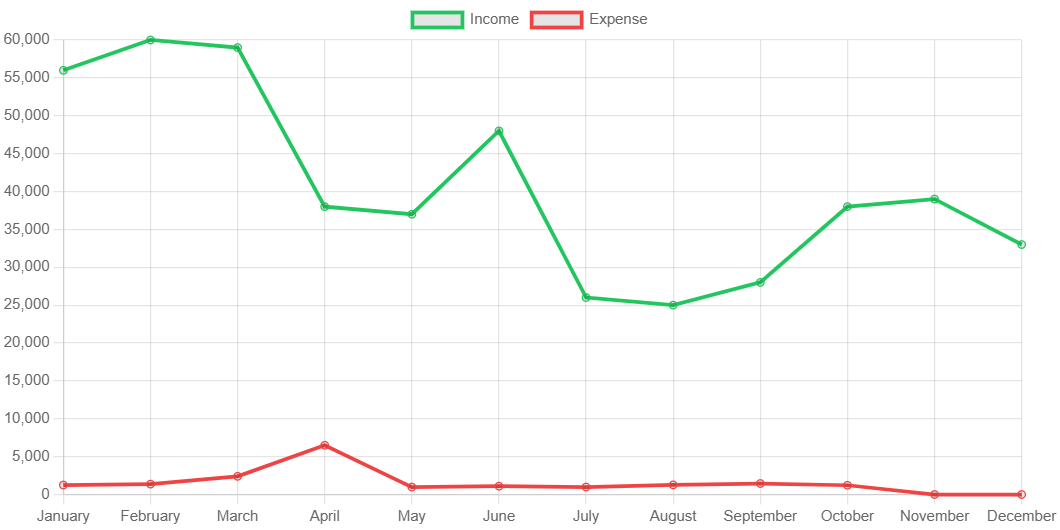
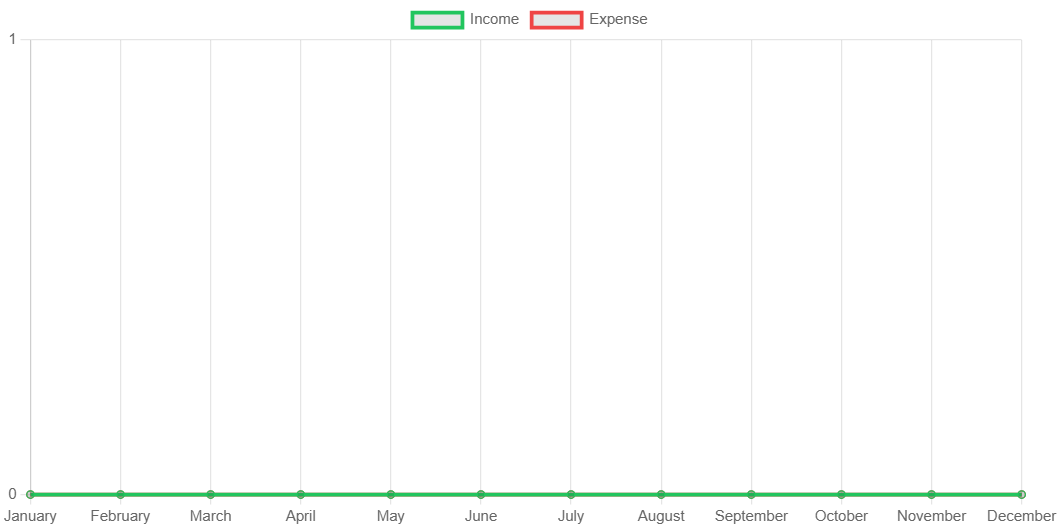
commit-37#22042025(7)

diff --git a/expensetracker/src/main/java/com/codelab/expensetracker/controllers/UserAccessUrlController.java b/expensetracker/src/main/java/com/codelab/expensetracker/controllers/UserAccessUrlController.java
@@ -752,38 +752,36 @@ public String expenseHistory(
 
     @GetMapping("/reports")
     public String reports(@RequestParam(name = "period", required = false, defaultValue = "monthly") String period
-                          ,Model model,Principal principal) {
-        
-        
+            , Model model, Principal principal) {
+
         String name = principal.getName();
         User user = this.userRepository.getUserByName(name);
 
         String duration = period;
         Double totalExpense = null;
-        Double totalIncome = null;
+        Double totalIncome = null;  
         Double netSavings = null;
-
 
         LocalDateTime startOfMonth = LocalDate.now().withDayOfMonth(1).atStartOfDay();
         LocalDateTime endOfMonth = LocalDate.now().withDayOfMonth(LocalDate.now().lengthOfMonth()).atTime(LocalTime.MAX);
 
-
         int month = LocalDate.now().getMonthValue();
-        int year =LocalDate.now().getYear();
+        int year = LocalDate.now().getYear();
         LocalDate startDate;
         LocalDate endDate;
-        
-         
-              
-        // for expenses in numbers------------------------------------------------------>
+
+        // for expenses in numbers ------------------------------------------------------>
         switch (duration) {
             case "monthly":
                 totalExpense = this.expenseRepository.findSumOfExpensesForCurrentMonth(user, startOfMonth, endOfMonth);
+                System.out.println(totalExpense);
                 totalIncome = this.incomeRepository.findSumOfIncomeForCurrentMonth(user, startOfMonth, endOfMonth);
-                totalExpense = (totalExpense != null) ? totalExpense : 0.0;
-                totalIncome = (totalIncome != null) ? totalIncome : 0.0;
+                totalExpense = (totalExpense == null) ? 0.0 : totalExpense;
+                totalIncome = (totalIncome == null) ? 0.0 : totalIncome;
                 
-                netSavings=totalIncome-totalExpense;
+                
+
+                netSavings = totalIncome - totalExpense;
                 break;
 
             case "quarterly":
@@ -803,18 +801,18 @@ public String expenseHistory(
                 LocalDateTime startOfQuarter = startDate.atStartOfDay();
                 LocalDateTime endOfQuarter = endDate.atTime(LocalTime.MAX);
 
-                totalExpense=this.expenseRepository.findSumOfExpenseForQuarter(user, startOfQuarter, endOfQuarter);
-                totalIncome=this.incomeRepository.findSumOfIncomeForQuarter(user, startOfQuarter, endOfQuarter);
+                totalExpense = this.expenseRepository.findSumOfExpenseForQuarter(user, startOfQuarter, endOfQuarter);
+                totalIncome = this.incomeRepository.findSumOfIncomeForQuarter(user, startOfQuarter, endOfQuarter);
                 totalExpense = (totalExpense != null) ? totalExpense : 0.0;
                 totalIncome = (totalIncome != null) ? totalIncome : 0.0;
-                
-                netSavings=totalIncome-totalExpense;
-                
+
+                netSavings = totalIncome - totalExpense;
+
                 break;
 
             case "yearly":
-                startDate=LocalDate.of(year,1,1);
-                endDate=LocalDate.of(year,12,31);
+                startDate = LocalDate.of(year, 1, 1);
+                endDate = LocalDate.of(year, 12, 31);
 
                 LocalDateTime startOfYear = startDate.atStartOfDay();
                 LocalDateTime endOfYear = endDate.atTime(LocalTime.MAX);
@@ -823,9 +821,9 @@ public String expenseHistory(
                 totalExpense = this.expenseRepository.findSumOfExpenseForYear(user, startOfYear, endOfYear);
                 totalExpense = (totalExpense != null) ? totalExpense : 0.0;
                 totalIncome = (totalIncome != null) ? totalIncome : 0.0;
-                
-                netSavings=totalIncome-totalExpense;
-                
+
+                netSavings = totalIncome - totalExpense;
+
                 break;
 
             default:
@@ -833,15 +831,13 @@ public String expenseHistory(
                 break;
         }
 
-        //for dynamic trends (expense , savings and income cards)
+        // For dynamic trends (expense, savings, and income cards)
         String periodLabel = switch (period.toLowerCase()) {
             case "monthly" -> "current month";
             case "quarterly" -> "current quarter";
             case "yearly" -> "current year";
             default -> "Selected Period";
         };
-
-        
 
         model.addAttribute("user", user);
         model.addAttribute("page", "reports");
@@ -850,11 +846,8 @@ public String expenseHistory(
         model.addAttribute("totalIncome", totalIncome);
         model.addAttribute("netSavings", netSavings);
         model.addAttribute("periodLabel", periodLabel);
-        
-        
-        
 
-        //for dynamic trends (Line chart)
+        // For dynamic trends (Line chart)
         String periodLabel2 = switch (period.toLowerCase()) {
             case "monthly" -> "Monthly";
             case "quarterly" -> "Quarterly";
@@ -864,60 +857,54 @@ public String expenseHistory(
         String periodLabel2Description = periodLabel2 + " Expense Trend";
         String periodTrendDescription = "Line chart showing " + periodLabel2.toLowerCase() + " expense trends";
 
-
-        //for dynamic trends (Pie chart)
+        // For dynamic trends (Pie chart)
         String periodLabel3 = switch (period.toLowerCase()) {
             case "monthly" -> "for current month";
             case "quarterly" -> "for current quarter";
             case "yearly" -> "for current year";
             default -> "Selected Period";
         };
-        String periodLabel3Description = "Pie chart showing distribution of expenses across categories "+periodLabel3;
-        
+        String periodLabel3Description = "Pie chart showing distribution of expenses across categories " + periodLabel3;
+
         model.addAttribute("periodTrendDescription", periodTrendDescription);
         model.addAttribute("periodLabel2Description", periodLabel2Description);
-        model.addAttribute("periodLabel3Description",periodLabel3Description);
-        
-        
-        
-        
-        //for line chart and pie chart values
-        List<Double>income;
-        List<Double>expense;
+        model.addAttribute("periodLabel3Description", periodLabel3Description);
+
+        // For line chart and pie chart values
+        List<Double> income;
+        List<Double> expense;
         List<String> months;
-        List<String>quarters;
-        List<String>years;
-        
-          switch (period.toLowerCase()) {
-            case "monthly"->{
-                income= this.reportService.getMonthlyIncomeSums(user);
-                expense= this.reportService.getMonthlyExpenseSums(user);
-                months = Arrays.asList("January", "February", "March", "April", "May", "June","July", "August", "September", "October", "November", "December");
+        List<String> quarters;
+        List<String> years;
+
+        switch (period.toLowerCase()) {
+            case "monthly" -> {
+                income = this.reportService.getMonthlyIncomeSums(user);
+                expense = this.reportService.getMonthlyExpenseSums(user);
+                months = Arrays.asList("January", "February", "March", "April", "May", "June", "July", "August", "September", "October", "November", "December");
                 model.addAttribute("income", income);
                 model.addAttribute("expense", expense);
                 model.addAttribute("month", months);
 
-                Map<String,Double>expensesByCategory = reportService.getCategoryAndAmountOfCurrentMonth(user);
+                Map<String, Double> expensesByCategory = reportService.getCategoryAndAmountOfCurrentMonth(user);
                 model.addAttribute("categories", new ArrayList<>(expensesByCategory.keySet()));
                 model.addAttribute("expenses", new ArrayList<>(expensesByCategory.values()));
-                
                 break;
             }
-            case "quarterly"->{
-                income= this.reportService.getQuarterlyIncomeSums(user);
-                expense= this.reportService.getQuarterlyExpenseSums(user);
+            case "quarterly" -> {
+                income = this.reportService.getQuarterlyIncomeSums(user);
+                expense = this.reportService.getQuarterlyExpenseSums(user);
                 quarters = Arrays.asList("Q1", "Q2", "Q3", "Q4");
                 model.addAttribute("income", income);
                 model.addAttribute("expense", expense);
                 model.addAttribute("quarter", quarters);
 
-                Map<String,Double>expensesByCategory = reportService.getCategoryAndAmountOfCurrentQuarter(user);
+                Map<String, Double> expensesByCategory = reportService.getCategoryAndAmountOfCurrentQuarter(user);
                 model.addAttribute("categories", new ArrayList<>(expensesByCategory.keySet()));
                 model.addAttribute("expenses", new ArrayList<>(expensesByCategory.values()));
-                
                 break;
             }
-            case "yearly"->{
+            case "yearly" -> {
                 income = this.reportService.getYearlyIncomeSums(user);
                 expense = this.reportService.getYearlyExpenseSums(user);
 
@@ -934,80 +921,75 @@ public String expenseHistory(
                 model.addAttribute("expense", expense);
                 model.addAttribute("year", years);
 
-                Map<String,Double>expensesByCategory = reportService.getCategoryAndAmountOfCurrentYear(user);
+                Map<String, Double> expensesByCategory = reportService.getCategoryAndAmountOfCurrentYear(user);
                 model.addAttribute("categories", new ArrayList<>(expensesByCategory.keySet()));
                 model.addAttribute("expenses", new ArrayList<>(expensesByCategory.values()));
-                
                 break;
             }
-            default->{
+            default -> {
                 System.out.println("invalid");
             }
-            
-          };
-          
-          
-          
-          // for Top spending categories 
+        }
 
+        // for Top spending categories
+        Double totalExpenseByUser= null;
+        Map<String, Double> currentCategorySums = null;
+        Map<String, Double> pastCategorySums = null;
         switch (period.toLowerCase()) {
             case "monthly" -> {
-                Map<String, Double> currentCategorySums = this.categoryService.getCurrentMonthCategorySums(user);
-                Map<String, Double> pastCategorySums = this.categoryService.getPastMonthCategorySums(user);
-                Double totalExpenseByUser = this.expenseRepository.findSumOfExpensesCurrentMonth(user);
-                model.addAttribute("currentCategorySums",currentCategorySums);
-                model.addAttribute("pastCategorySums",pastCategorySums);
-                model.addAttribute("totalExpenseByUser",totalExpenseByUser);
+                currentCategorySums = this.categoryService.getCurrentMonthCategorySums(user);
+                pastCategorySums = this.categoryService.getPastMonthCategorySums(user);
+                totalExpenseByUser = this.expenseRepository.findSumOfExpensesCurrentMonth(user);
 
-                
-                
+                // Handle null values for the totalExpenseByUser and category sums
+                totalExpenseByUser = (totalExpenseByUser != null) ? totalExpenseByUser : 0.0;
+                currentCategorySums = (currentCategorySums != null) ? currentCategorySums : new HashMap<>();
+                pastCategorySums = (pastCategorySums != null) ? pastCategorySums : new HashMap<>();
 
+                model.addAttribute("currentCategorySums", currentCategorySums);
+                model.addAttribute("pastCategorySums", pastCategorySums);
+                model.addAttribute("totalExpenseByUser", totalExpenseByUser);
             }
- 
-            
 
-                    
             case "quarterly" -> {
-                Map<String, Double> currentCategorySums = this.categoryService.getCurrentQuarterCategorySums(user);
-                Map<String, Double> pastCategorySums = this.categoryService.getPastQuarterCategorySums(user);
-                Double totalExpenseByUser = this.expenseRepository.findSumOfExpensesCurrentQuarter(user);
-                model.addAttribute("currentCategorySums",currentCategorySums);
-                model.addAttribute("pastCategorySums",pastCategorySums);
-                model.addAttribute("totalExpenseByUser",totalExpenseByUser);
+                 currentCategorySums = this.categoryService.getCurrentQuarterCategorySums(user);
+                 pastCategorySums = this.categoryService.getPastQuarterCategorySums(user);
+                totalExpenseByUser = this.expenseRepository.findSumOfExpensesCurrentQuarter(user);
+
+                // Handle null values for the totalExpenseByUser and category sums
+                totalExpenseByUser = (totalExpenseByUser != null) ? totalExpenseByUser : 0.0;
+                currentCategorySums = (currentCategorySums != null) ? currentCategorySums : new HashMap<>();
+                pastCategorySums = (pastCategorySums != null) ? pastCategorySums : new HashMap<>();
+
+                model.addAttribute("currentCategorySums", currentCategorySums);
+                model.addAttribute("pastCategorySums", pastCategorySums);
+                model.addAttribute("totalExpenseByUser", totalExpenseByUser);
             }
 
-
-                    
             case "yearly" -> {
-                Map<String, Double> currentCategorySums = this.categoryService.getCurrentYearCategorySums(user);
-                Map<String, Double> pastCategorySums = this.categoryService.getPastYearCategorySums(user);
-                Double totalExpenseByUser = this.expenseRepository.findSumOfExpensesCurrentYear(user);
-                model.addAttribute("currentCategorySums",currentCategorySums);
-                model.addAttribute("pastCategorySums",pastCategorySums);
-                model.addAttribute("totalExpenseByUser",totalExpenseByUser);
+                currentCategorySums = this.categoryService.getCurrentYearCategorySums(user);
+                pastCategorySums = this.categoryService.getPastYearCategorySums(user);
+                totalExpenseByUser = this.expenseRepository.findSumOfExpensesCurrentYear(user);
+
+                // Handle null values for the totalExpenseByUser and category sums
+                totalExpenseByUser = (totalExpenseByUser != null) ? totalExpenseByUser : 0.0;
+                currentCategorySums = (currentCategorySums != null) ? currentCategorySums : new HashMap<>();
+                pastCategorySums = (pastCategorySums != null) ? pastCategorySums : new HashMap<>();
+
+                model.addAttribute("currentCategorySums", currentCategorySums);
+                model.addAttribute("pastCategorySums", pastCategorySums);
+                model.addAttribute("totalExpenseByUser", totalExpenseByUser);
             }
 
-                    
             default -> {
                 System.out.println("Invalid");
             }
-
-                    
-        };
+        }
 
 
-
-
-        
-        
-        
-
-
-        
-        
-        
         return "user-access-url/reports";
     }
+
 
     @PostMapping("/save-chart-image")
     public String saveChartImage(@RequestBody ChartImageService chartImageServicerequest) {

diff --git a/expensetracker/src/main/java/com/codelab/expensetracker/repositories/ExpenseRepository.java b/expensetracker/src/main/java/com/codelab/expensetracker/repositories/ExpenseRepository.java
@@ -28,8 +28,8 @@ public interface ExpenseRepository extends JpaRepository<Expense, Integer>, JpaS
     @Query("SELECT SUM(e.amount)  From Expense e WHERE e.user = :user ")
     double findSumOfExpensesOfUserByUser(@Param("user") User user);
 
-    @Query("SELECT SUM(e.amount) FROM Expense e WHERE e.user = :user AND e.dateTime BETWEEN :startOfMonth AND :endOfMonth")
-    Double findSumOfExpensesForCurrentMonth(@Param("user") User user,
+    @Query("SELECT COALESCE(SUM(e.amount), 0.0) FROM Expense e WHERE e.user = :user AND e.dateTime BETWEEN :startOfMonth AND :endOfMonth")
+     Double findSumOfExpensesForCurrentMonth(@Param("user") User user,
                                             @Param("startOfMonth") LocalDateTime startOfMonth,
                                             @Param("endOfMonth") LocalDateTime endOfMonth);
 
@@ -132,7 +132,7 @@ public interface ExpenseRepository extends JpaRepository<Expense, Integer>, JpaS
             "WHERE e.user = :user " +
             "AND EXTRACT(YEAR FROM e.dateTime) = EXTRACT(YEAR FROM CURRENT_DATE) " +
             "AND EXTRACT(MONTH FROM e.dateTime) = EXTRACT(MONTH FROM CURRENT_DATE)")
-    double findSumOfExpensesCurrentMonth(@Param("user") User user);
+    Double findSumOfExpensesCurrentMonth(@Param("user") User user);
 
 
 
@@ -141,7 +141,7 @@ public interface ExpenseRepository extends JpaRepository<Expense, Integer>, JpaS
             "WHERE e.user = :user " +
             "AND EXTRACT(YEAR FROM e.dateTime) = EXTRACT(YEAR FROM CURRENT_DATE) " +
             "AND CEIL(EXTRACT(MONTH FROM e.dateTime) / 3.0) = CEIL(EXTRACT(MONTH FROM CURRENT_DATE) / 3.0)")
-    double findSumOfExpensesCurrentQuarter(@Param("user") User user);
+    Double findSumOfExpensesCurrentQuarter(@Param("user") User user);
 
 
 
@@ -149,7 +149,7 @@ public interface ExpenseRepository extends JpaRepository<Expense, Integer>, JpaS
             "FROM Expense e " +
             "WHERE e.user = :user " +
             "AND EXTRACT(YEAR FROM e.dateTime) = EXTRACT(YEAR FROM CURRENT_DATE)")
-    double findSumOfExpensesCurrentYear(@Param("user") User user);
+    Double findSumOfExpensesCurrentYear(@Param("user") User user);
 
 
 }

diff --git a/expensetracker/src/main/java/com/codelab/expensetracker/repositories/IncomeRepository.java b/expensetracker/src/main/java/com/codelab/expensetracker/repositories/IncomeRepository.java
@@ -25,7 +25,7 @@ public interface IncomeRepository extends JpaRepository<Income, Integer> , JpaSp
     @Query("SELECT SUM(i.amount)  From Income i WHERE i.user = :user ")
     double findSumOfIncomeOfUserByUser(@Param("user") User user);
 
-    @Query("SELECT SUM(i.amount) FROM Income i WHERE i.user = :user AND i.dateTime BETWEEN :startOfMonth AND :endOfMonth")
+    @Query("SELECT COALESCE (SUM(i.amount), 0.0) FROM Income i WHERE i.user = :user AND i.dateTime BETWEEN :startOfMonth AND :endOfMonth")
     Double findSumOfIncomeForCurrentMonth(@Param("user") User user,
                                           @Param("startOfMonth") LocalDateTime startOfMonth,
                                           @Param("endOfMonth") LocalDateTime endOfMonth);

diff --git a/expensetracker/src/main/java/com/codelab/expensetracker/controllers/UrlController.java b/expensetracker/src/main/java/com/codelab/expensetracker/controllers/UrlController.java
@@ -196,7 +196,7 @@ public class UrlController {
             session.setAttribute("customMessage", new CustomDisplayMessage("Invalid OTP", "alert-danger"));
             model.addAttribute("page","verifyOTP");
             model.addAttribute("userEmail", username);
-            return "/open-url/2fa-verification";
+            return "open-url/2fa-verification";
         }
     }
 
